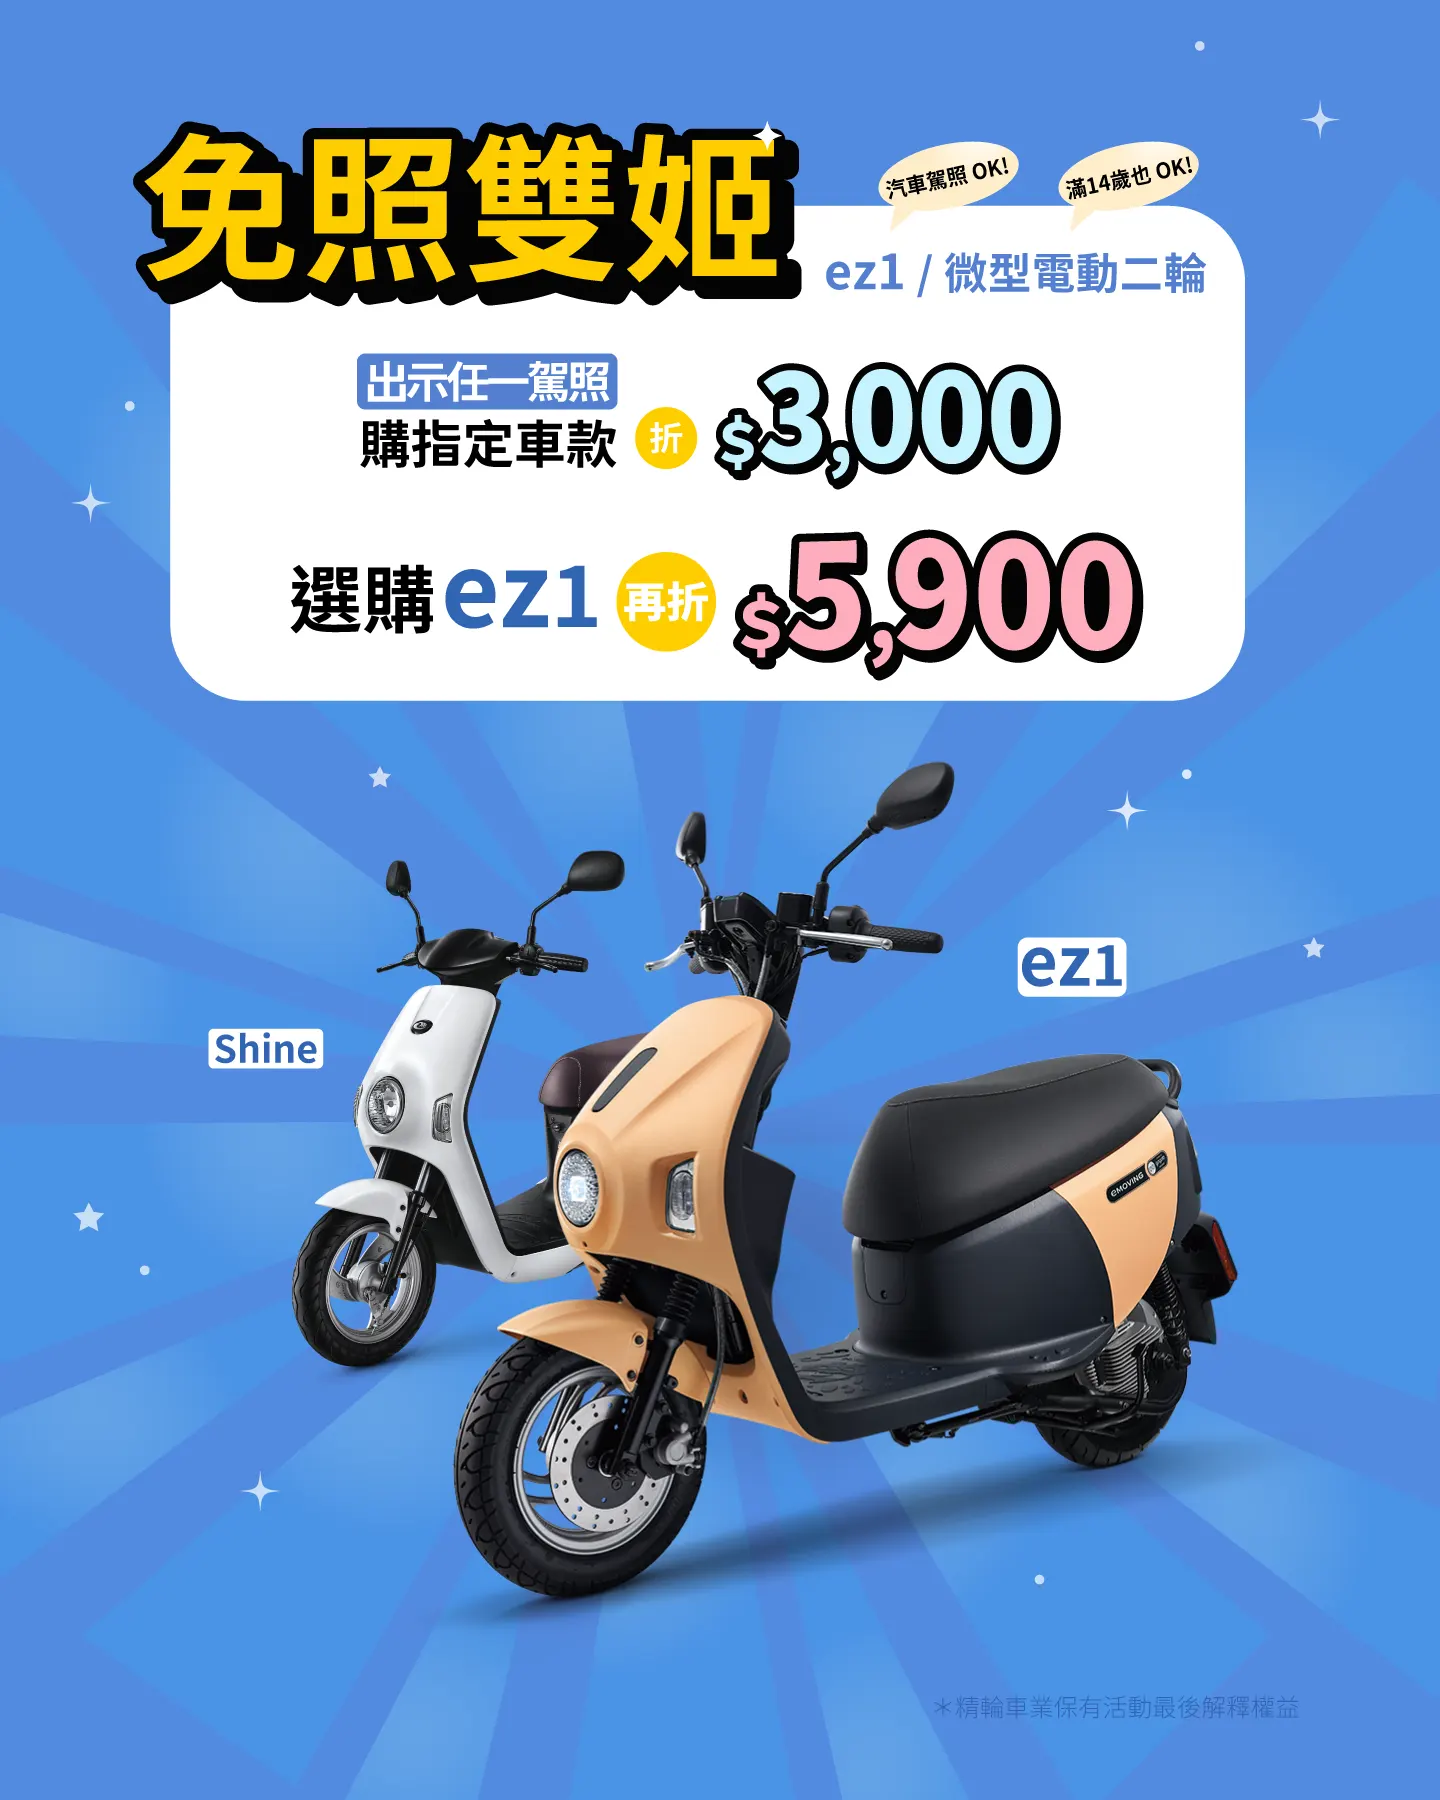
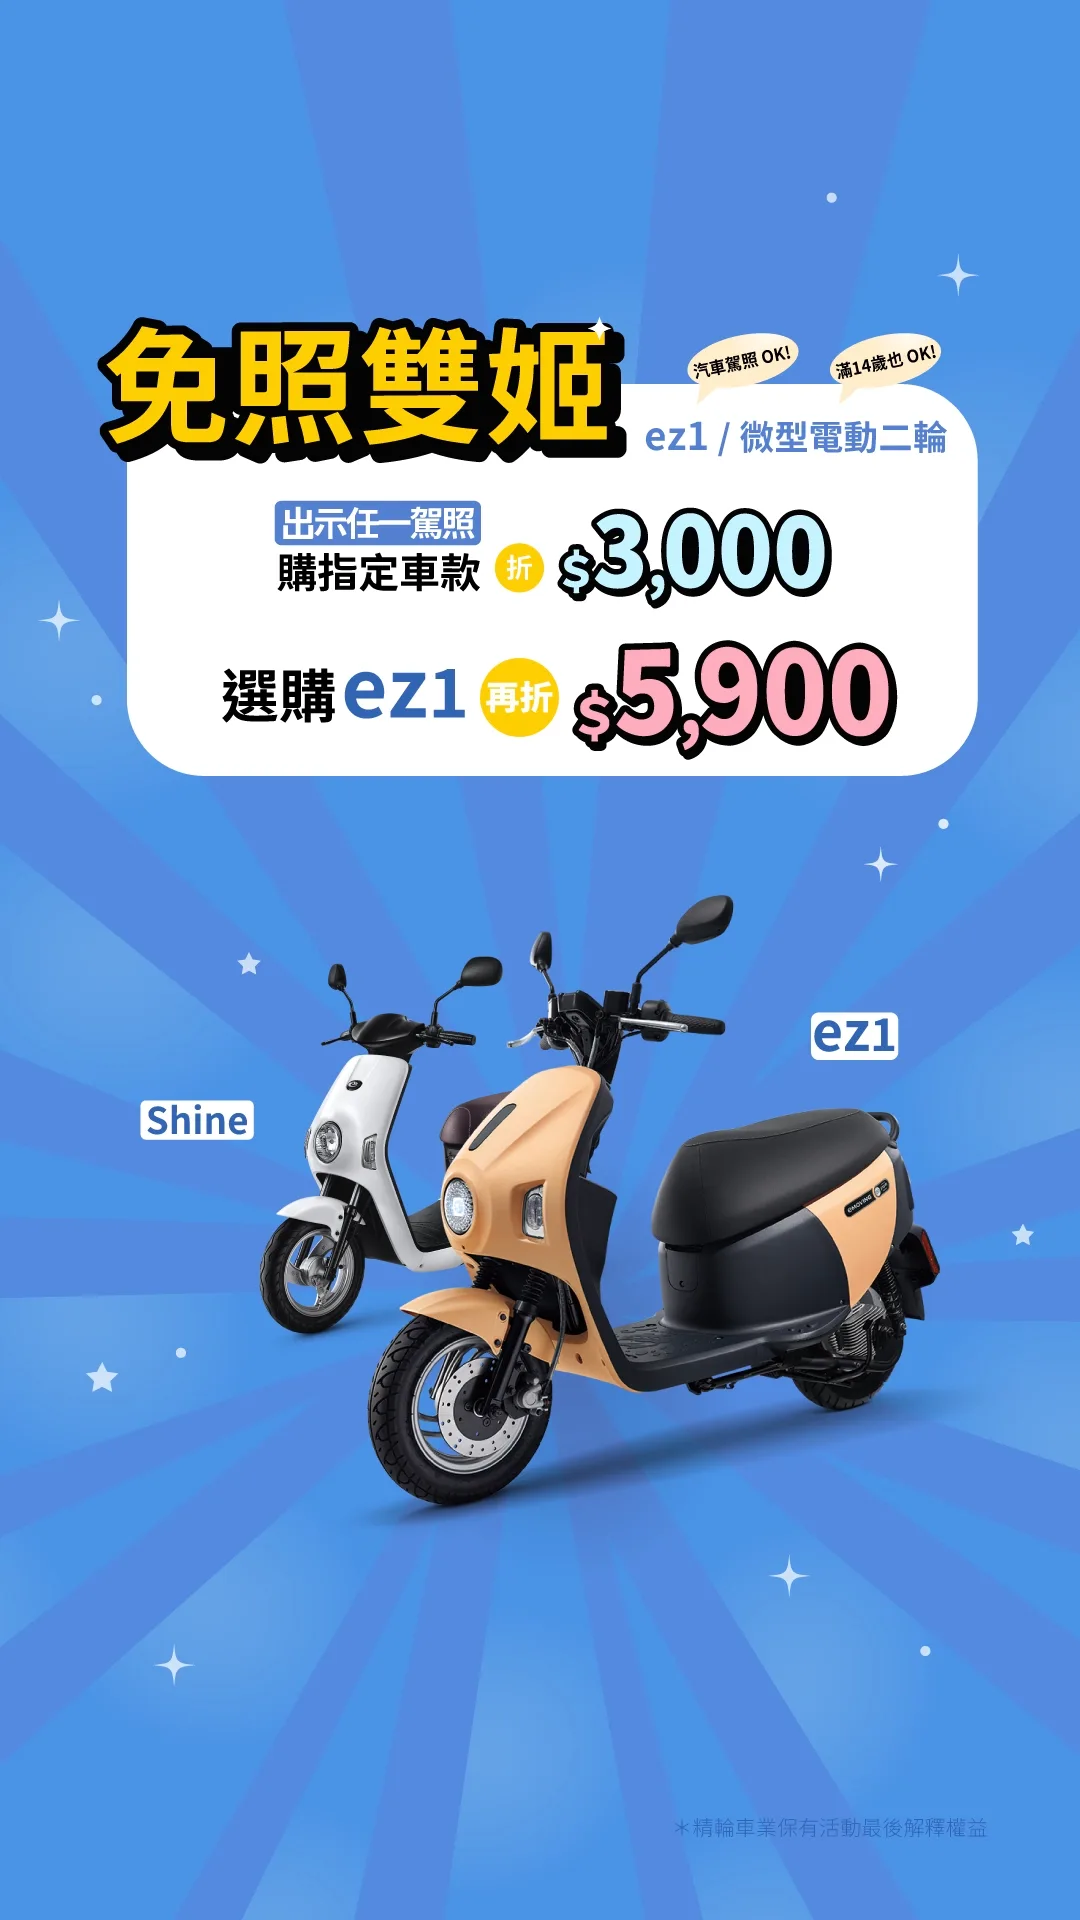
修改 主打優惠手機banner

diff --git a/layouts/promotions/single.html b/layouts/promotions/single.html
@@ -5,26 +5,26 @@
 
     <div>
         <!-- ========================================== -->
-        <!-- 1. 廣宣圖 Banner (完美適應手機與電腦比例，無縫接合選單) -->
+        <!-- 1. 廣宣圖 Banner (全面滿版設計：移除圓角與內距，完美貼齊選單與視窗) -->
         <!-- ========================================== -->
-        <section class="w-full bg-[#6eade3] relative shrink-0 p-0 m-0 overflow-hidden leading-none">
-            <div class="w-full h-full flex justify-center items-center m-0 p-0">
+        <section class="w-full h-[calc(100dvh-108px)] md:h-[calc(100dvh-116px)] bg-[#6eade3] flex flex-col justify-center items-center relative shrink-0 p-0 overflow-hidden">
+            <div class="w-full h-full flex justify-center items-center my-auto">
                 <!-- 預設值與變數讀取 -->
                 {{ $imgMobile := .Resources.GetMatch (default "banner_mobile.webp" .Params.hero_image_mobile) }}
                 {{ $imgDesktop := .Resources.GetMatch (default "banner_desktop.webp" .Params.hero_image_desktop) }}
                 
                 {{ if or $imgMobile $imgDesktop }}
-                    <picture class="w-full block leading-none m-0 p-0">
+                    <picture class="w-full h-full flex items-center justify-center text-center">
                         <!-- 電腦版 (>= 768px)：顯示橫圖 -->
                         {{ if $imgDesktop }}
                             <source media="(min-width: 768px)" srcset="{{ $imgDesktop.RelPermalink }}">
                         {{ end }}
                         
-                        <!-- 手機版 (預設)：顯示直圖 (使用 w-full h-auto 保持原始比例完美呈現) -->
+                        <!-- 手機版 (預設)：顯示直圖 -->
                         {{ if $imgMobile }}
-                            <img src="{{ $imgMobile.RelPermalink }}" alt="{{ $.Title }}" class="w-full h-auto block m-0 p-0">
+                            <img src="{{ $imgMobile.RelPermalink }}" alt="{{ $.Title }}" class="w-full h-full object-cover mx-auto block">
                         {{ else if $imgDesktop }}
-                            <img src="{{ $imgDesktop.RelPermalink }}" alt="{{ $.Title }}" class="w-full h-auto block m-0 p-0">
+                            <img src="{{ $imgDesktop.RelPermalink }}" alt="{{ $.Title }}" class="w-full h-full object-cover mx-auto block">
                         {{ end }}
                     </picture>
                 {{ else }}
@@ -190,7 +190,7 @@
                             🏍 車款介紹主頁
                         </a>
 
-                        <a href='{{ $model.line_link | default "https://lihi1.me/8LpPy?ref=line_join" }}' target="_blank" 
+                        <a href="{{ $model.line_link | default "https://lihi1.me/8LpPy?ref=line_join" }}" target="_blank" 
                            class="flex items-center justify-center gap-2 bg-[#f9fcff] hover:bg-blue-50 text-[#1C1C1C] font-bold text-[18px] py-4 px-6 rounded-xl border-2 border-[#1155CC] shadow-sm transition-all text-center">
                             💬 加入官方 LINE 諮詢
                         </a>
@@ -207,11 +207,11 @@
 
             <!-- 主打優惠頁面最下方雙按鈕（預約試乘 / 其他車款優惠） -->
             <div class="pt-10 flex flex-col sm:flex-row gap-5 justify-center items-center max-w-2xl mx-auto">
-                <a href='{{ "booking/" | relURL }}'
+                <a href="{{ "booking/" | relURL }}"
                    class="w-full sm:w-1/2 flex items-center justify-center gap-2 bg-[#1155CC] hover:bg-blue-700 text-white font-semibold text-[18px] py-4 px-6 rounded-2xl shadow-lg border-2 border-[#1155CC] transition-all text-center transform hover:-translate-y-0.5">
                     🛵 預約試乘
                 </a>
-                <a href='{{ "customer-service/" | relURL }}'
+                <a href="{{ "customer-service/" | relURL }}"
                    class="w-full sm:w-1/2 flex items-center justify-center gap-2 bg-[#1155CC] hover:bg-blue-700 text-white font-semibold text-[18px] py-4 px-6 rounded-2xl shadow-lg border-2 border-[#1155CC] transition-all text-center transform hover:-translate-y-0.5">
                     🤖 其他車款優惠
                 </a>
@@ -281,7 +281,7 @@
         font-weight: 900 !important;
         display: inline-block;
         margin: 0 2px;
-        text-shadow: none;
+        text-shadow: none; /* 移除陰影 */
     }
 
     .promo-tab-btn.active {
